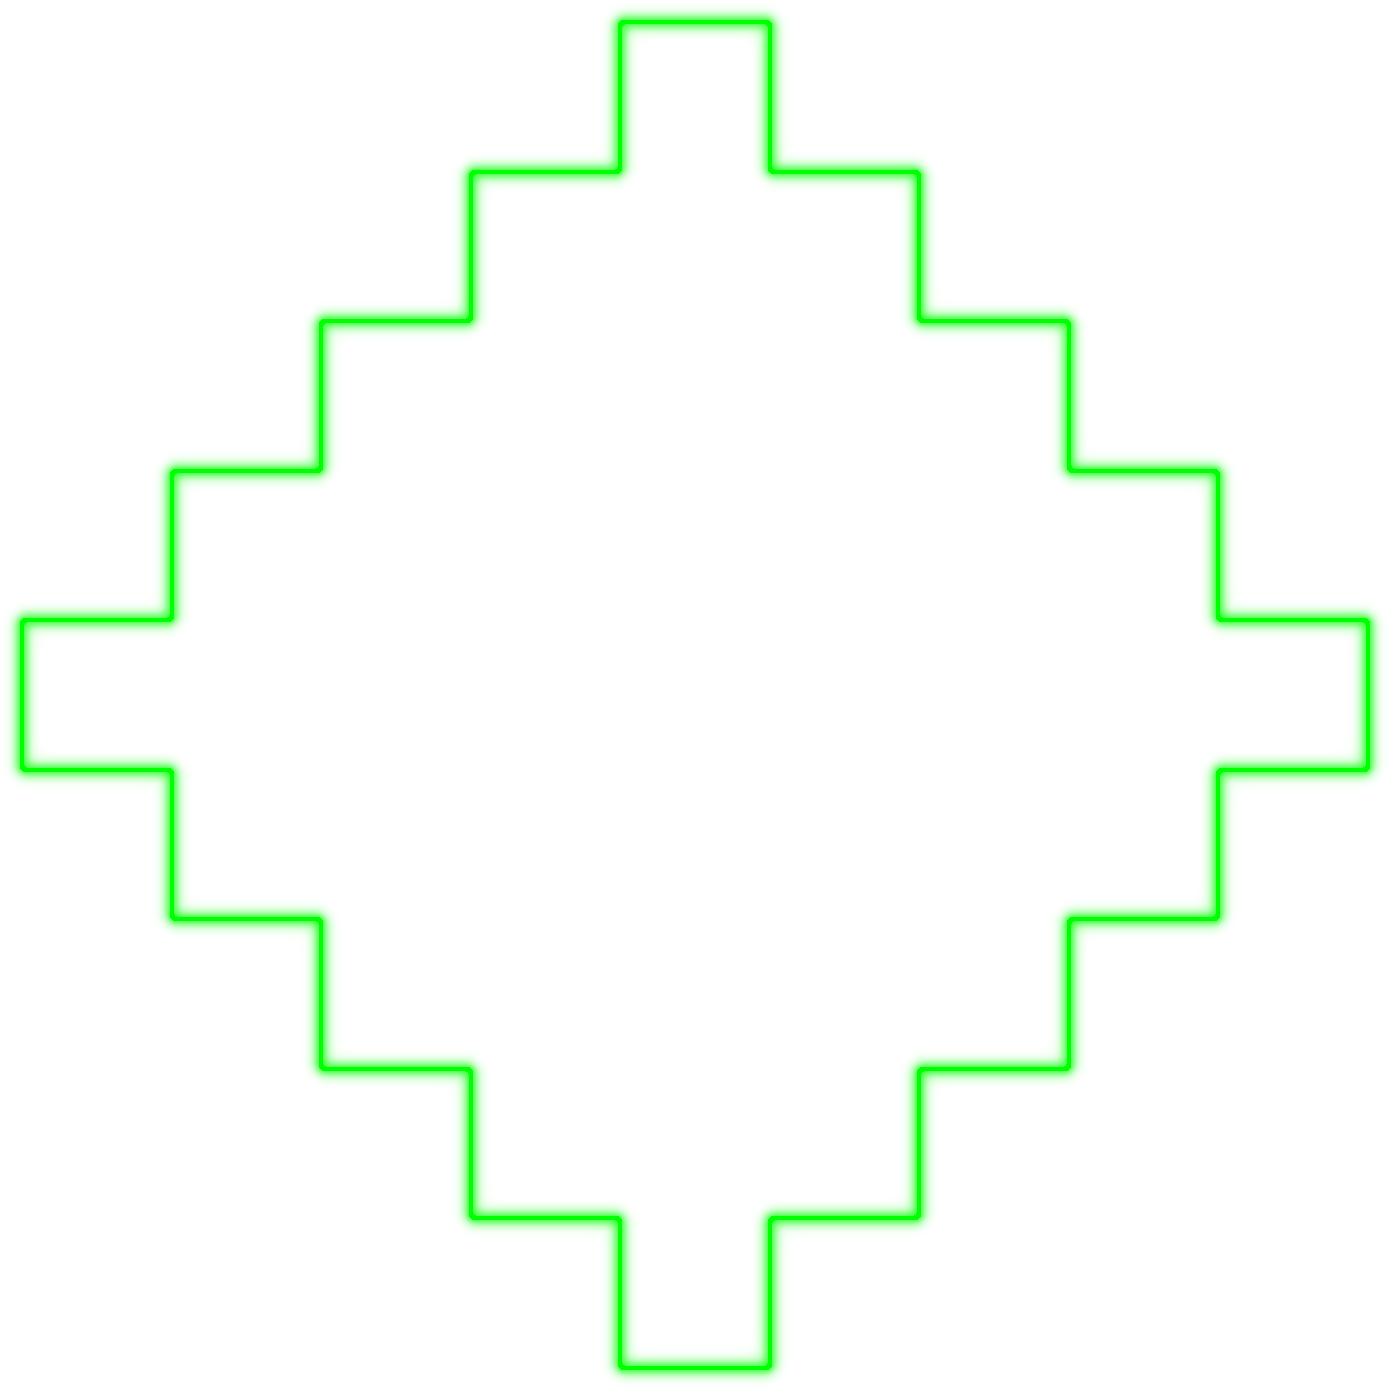
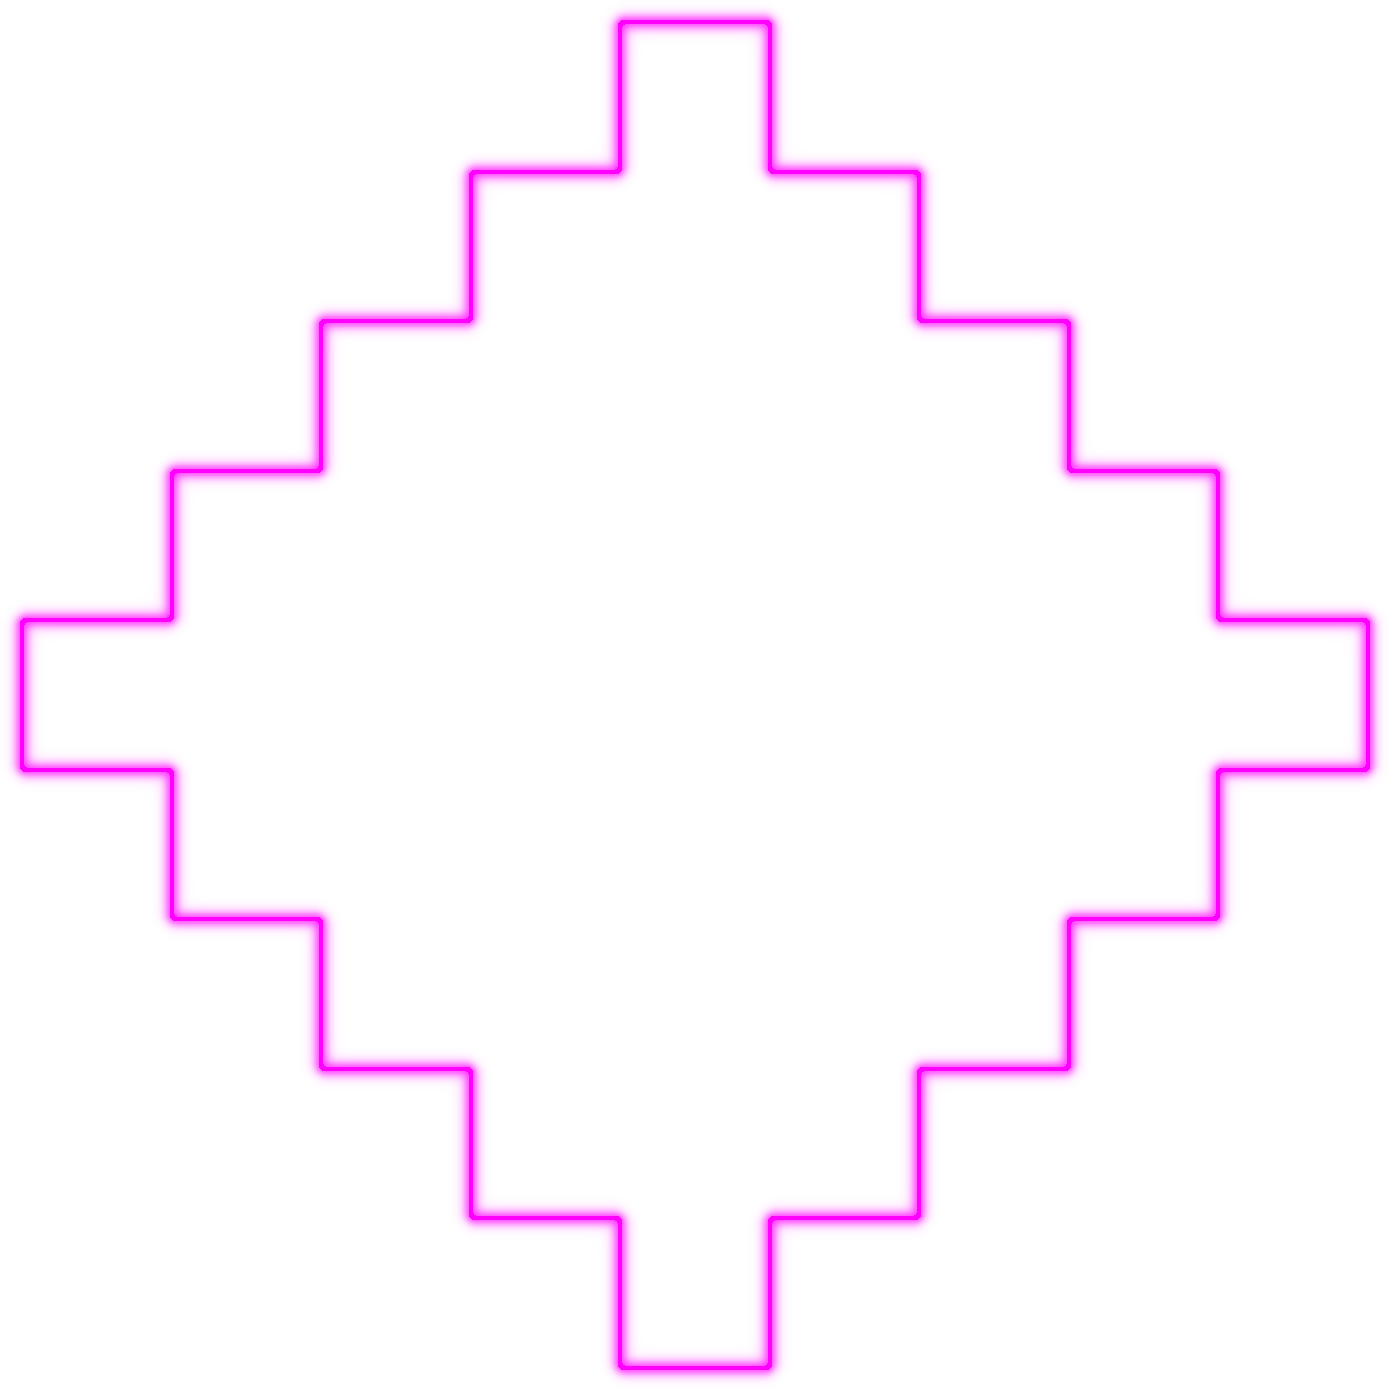
Various search visibility improvements

Changed region(s): [[0.0, 0.0, 1.0, 1.0]]

diff --git a/main.js b/main.js
@@ -264,12 +264,13 @@ const borderColor = 0xFFFFFF;//borderColorHEX.length == 8 ? Number(borderColorHE
 const borderOpacity = 1;//borderColorHEX.length == 8 ? 1 : (borderColorHEX & 0xFF) / 255;
 const activeConnectorColor = 0xFF0000;
 const activeNodeColor = 0xFF0000;
+const searchQueryMatchColor = 0x00FF00;
 
 const lineStyleThinSquare = { alpha: borderOpacity, cap: PIXI.LINE_CAP.SQUARE, color: borderColor, native: true, width: 1 };
 const lineStyleThinButt = { alpha: borderOpacity, cap: PIXI.LINE_CAP.BUTT, color: borderColor, native: true, width: 1 };
 const lineStyleThickSquareTooltip = { alpha: borderOpacity, cap: PIXI.LINE_CAP.SQUARE, color: borderColor, native: false, width: 8 };
-var lineStyleThickSquare = { alpha: borderOpacity, cap: PIXI.LINE_CAP.SQUARE, color: activeNodeColor, native: false, width: 8 };
-var lineStyleThickButt = { alpha: 1, cap: PIXI.LINE_CAP.BUTT, color: activeConnectorColor, native: false, width: 8 };
+const lineStyleThickSquare = { alpha: borderOpacity, cap: PIXI.LINE_CAP.SQUARE, color: activeNodeColor, native: false, width: 8 };
+const lineStyleThickButt = { alpha: 1, cap: PIXI.LINE_CAP.BUTT, color: activeConnectorColor, native: false, width: 8 };
 
 var pixiAllocatedPoints = new Map();
 var pixiAllocatedParagonPoints = 0;
@@ -361,24 +362,28 @@ PIXI.Graphics.prototype.updateLineStyle = function({ alpha = null, cap = null, c
 function setNodeStyleThick(curNode) {
 	const allocatedPoints = curNode.nodeData.get("allocatedPoints");
 	const searchQueryMatch = curNode.nodeData.get("searchQueryMatch");
-	const desiredNodeStyle = `thick${allocatedPoints > 0 ? "-allocated" : ""}${searchQueryMatch ? "-invert" : ""}`;
+	const desiredNodeStyle = `thick${allocatedPoints > 0 ? "-allocated" : ""}${searchQueryMatch ? "-match" : ""}`;
+
 	if (curNode.activeNodeStyle == desiredNodeStyle) return;
+
+	const colorOverride = curNode.nodeData.get("colorOverride");
+	const _textColor = searchQueryMatch ? searchQueryMatchColor : colorOverride == undefined ? textColor : colorOverride;
 
 	let _lineStyleThickSquare = { ...lineStyleThickSquare };
 	if (searchQueryMatch) {
-		if ([0xFF0000, 0xFFFFFF].includes(_lineStyleThickSquare.color)) {
-			_lineStyleThickSquare.color = 0x00FF00;
-		} else {
-			_lineStyleThickSquare.color = _lineStyleThickSquare.color ^ 0xFFFFFF;
-		}
+		_lineStyleThickSquare.color = searchQueryMatchColor;
 	} else if (curNode.groupName == PARAGON_BOARD) {
 		_lineStyleThickSquare.color = COLOR_OVERRIDE["Allocated"];
-	} else if (curNode.nodeData.get("colorOverride") != undefined) {
-		_lineStyleThickSquare.color = curNode.nodeData.get("colorOverride");
+	} else if (colorOverride != undefined) {
+		_lineStyleThickSquare.color = colorOverride;
 	}
 
+	curNode.children[1].style.fill = _textColor;
 	if (allocatedPoints > 0) curNode.children[1].style.fontWeight = "bold";
 	if (curNode.children.length > 3) {
+		curNode.children[2].style.fill = _textColor;
+		curNode.children[3].children[0].style.fill = _textColor;
+		curNode.children[4].children[0].style.fill = _textColor;
 		if (allocatedPoints > 0) {
 			curNode.children[2].style.fontWeight = "bold";
 			curNode.children[3].children[0].style.fontWeight = "bold";
@@ -394,16 +399,24 @@ function setNodeStyleThick(curNode) {
 function setNodeStyleThin(curNode) {
 	const allocatedPoints = curNode.nodeData.get("allocatedPoints");
 	const searchQueryMatch = curNode.nodeData.get("searchQueryMatch");
-	const desiredLineStyle = `thin${allocatedPoints == 0 ? "" : "-allocated"}${searchQueryMatch ? "-invert" : ""}`;
+	const desiredLineStyle = `thin${allocatedPoints == 0 ? "" : "-allocated"}${searchQueryMatch ? "-match" : ""}`;
+
 	if (curNode.activeNodeStyle == desiredLineStyle) return;
 
+	const colorOverride = curNode.nodeData.get("colorOverride");
+	const _textColor = searchQueryMatch ? searchQueryMatchColor : colorOverride == undefined ? textColor : colorOverride;
+
 	let _lineStyleThinSquare = { ...lineStyleThinSquare };
-	if (curNode.nodeData.get("colorOverride") != undefined) {
-		_lineStyleThinSquare.color = curNode.nodeData.get("colorOverride");
+	if (colorOverride != undefined) {
+		_lineStyleThinSquare.color = colorOverride;
 	}
 
+	curNode.children[1].style.fill = _textColor;
 	if (allocatedPoints == 0) curNode.children[1].style.fontWeight = "normal";
 	if (curNode.children.length > 3) {
+		curNode.children[2].style.fill = _textColor;
+		curNode.children[3].children[0].style.fill = _textColor;
+		curNode.children[4].children[0].style.fill = _textColor;
 		if (allocatedPoints == 0) {
 			curNode.children[2].style.fontWeight = "normal";
 			curNode.children[3].children[0].style.fontWeight = "normal";
@@ -693,7 +706,7 @@ function handleClampButton(event) {
 	repositionTooltip();
 	resizeSearchInput();
 }
-const localVersion = "0.8.1.39858-37";
+const localVersion = "0.8.1.39858-38";
 var remoteVersion = "";
 var versionInterval = null;
 function handleVersionLabel(event) {
@@ -2024,13 +2037,11 @@ function drawNode(nodeName, nodeData, groupName, extraData = null, nodeIndex = p
 	const maxPoints = nodeData.get("maxPoints");
 	const requiredPoints = nodeData.get("requiredPoints");
 
-	// `searchQueryMatch` implies `useThickNodeStyle` and `invertColor`; is set in `handleSearchInput(...)`; and is only used for restoring node style after `redrawNode` is called
 	const searchQueryMatch = nodeData.get("searchQueryMatch");
-
 	const useThickNodeStyle = searchQueryMatch || (groupName == undefined ? requiredPoints <= getAllocatedSkillPoints(nodeName) : allocatedPoints > 0);
 
 	const colorOverride = nodeData.get("colorOverride");
-	const _textColor = colorOverride != undefined ? colorOverride : textColor;
+	const _textColor = searchQueryMatch ? searchQueryMatchColor : colorOverride == undefined ? textColor : colorOverride;
 
 	let extraContainer, extraContainer2, extraContainer3, extraContainer4, extraContainer5;
 	if (extraData != null) {
@@ -2200,9 +2211,9 @@ function drawNode(nodeName, nodeData, groupName, extraData = null, nodeIndex = p
 		};
 		nodeText2.eventMode = "auto";
 		nodeText2.scale.set(1 / scaleFactor);
-		nodeText2.anchor.set(0.5);
-		nodeText2.x = (_nodeWidth * shapeSize * circleFactor * diamondFactor - nodeText2.width) * 0.5 - 5;
-		nodeText2.y = (nodeText2.height - _nodeHeight * shapeSize * circleFactor * diamondFactor) * 0.5 + (shapeType == "circle" ? -2 : 2);
+		nodeText2.anchor.set(1, 0);
+		nodeText2.x = (_nodeWidth * shapeSize * circleFactor * diamondFactor) * 0.5 - 10;
+		nodeText2.y = -(_nodeHeight * shapeSize * circleFactor * diamondFactor) * 0.5 + (shapeType == "circle" ? 1 : 7);
 
 		minusContainer = updateExistingNode ? pixiNodes[nodeIndex].children[3] : new PIXI.Container();
 		minusContainer.cursor = "pointer";
@@ -2231,9 +2242,9 @@ function drawNode(nodeName, nodeData, groupName, extraData = null, nodeIndex = p
 		};
 		nodeText3.eventMode = "auto";
 		nodeText3.scale.set(1 / scaleFactor);
-		nodeText3.anchor.set(0.5);
-		nodeText3.x = (nodeText3.width - _nodeWidth * shapeSize * circleFactor * diamondFactor) * 0.5 + 4;
-		nodeText3.y = (_nodeHeight * shapeSize * circleFactor * diamondFactor - nodeText3.height) * 0.5 + (shapeType == "circle" ? 8 : 0);
+		nodeText3.anchor.set(0, 1);
+		nodeText3.x = -(_nodeWidth * shapeSize * circleFactor * diamondFactor) * 0.5 + 9;
+		nodeText3.y = (_nodeHeight * shapeSize * circleFactor * diamondFactor) * 0.5 + (shapeType == "circle" ? 3 : -5);
 		if (!updateExistingNode) minusContainer.addChild(nodeText3);
 
 		plusContainer = updateExistingNode ? pixiNodes[nodeIndex].children[4] : new PIXI.Container();
@@ -2263,9 +2274,9 @@ function drawNode(nodeName, nodeData, groupName, extraData = null, nodeIndex = p
 		};
 		nodeText4.eventMode = "auto";
 		nodeText4.scale.set(1 / scaleFactor);
-		nodeText4.anchor.set(0.5);
-		nodeText4.x = (_nodeWidth * shapeSize * circleFactor * diamondFactor - nodeText4.width) * 0.5;
-		nodeText4.y = (_nodeHeight * shapeSize * circleFactor * diamondFactor - nodeText4.height) * 0.5 + (shapeType == "circle" ? 12 : 4);
+		nodeText4.anchor.set(1, 1);
+		nodeText4.x = (_nodeWidth * shapeSize * circleFactor * diamondFactor) * 0.5 - 5;
+		nodeText4.y = (_nodeHeight * shapeSize * circleFactor * diamondFactor) * 0.5 + (shapeType == "circle" ? 7 : -1);
 		if (!updateExistingNode) plusContainer.addChild(nodeText4);
 	}
 
@@ -2277,12 +2288,8 @@ function drawNode(nodeName, nodeData, groupName, extraData = null, nodeIndex = p
 	nodeBorder.pivot.y = _nodeHeight * 0.5 * shapeSize;
 	if (([PARAGON_BOARD, CODEX_OF_POWER, SPIRIT_BOONS, BOOK_OF_THE_DEAD, undefined].includes(groupName) && requiredPoints == 0) || useThickNodeStyle) {
 		let _lineStyleThickSquare = { ...lineStyleThickSquare };
-		if (searchQueryMatch) { // aka `invertColor`
-			if ([0xFF0000, 0xFFFFFF].includes(_lineStyleThickSquare.color)) {
-				_lineStyleThickSquare.color = 0x00FF00;
-			} else {
-				_lineStyleThickSquare.color = _lineStyleThickSquare.color ^ 0xFFFFFF;
-			}
+		if (searchQueryMatch) {
+			_lineStyleThickSquare.color = searchQueryMatchColor;
 		} else if (groupName == PARAGON_BOARD) {
 			_lineStyleThickSquare.color = COLOR_OVERRIDE["Allocated"];
 		} else if (colorOverride != undefined) {
@@ -2721,6 +2728,7 @@ function drawAllNodes() {
 				drawNode(boardName, paragonBoardNode, PARAGON_BOARD, unsortedIndex > 0 ? unsortedIndex : null);
 				const boardHeader = pixiNodes[pixiNodes.length - 1];
 
+				let socketData = null;
 				for (const [yPosition, rowData] of Object.entries(boardData)) {
 					for (const [xPosition, nodeData] of Object.entries(rowData)) {
 						if (nodeData.length > 0) {
@@ -2766,11 +2774,19 @@ function drawAllNodes() {
 								["x", nodeSpacingX * (Number(xPosition) - 10)],
 								["y", nodeSpacingY * (Number(yPosition) - 10)]
 							]);
-							drawNode(nodeName, boardNode, PARAGON_BOARD);
-							if (nodeType == "Socket") paragonBoardNode.set("glyphSocket", pixiNodes[pixiNodes.length - 1]);
-							boardContainer.addChild(pixiNodes[pixiNodes.length - 1]);
+							if (nodeType == "Socket") {
+								socketData = [nodeName, boardNode]; // defer drawing glyph socket (z-index texture workaround)
+							} else {
+								drawNode(nodeName, boardNode, PARAGON_BOARD);
+								boardContainer.addChild(pixiNodes[pixiNodes.length - 1]);
+							}
 						}
 					}
+				}
+				if (socketData != null) {
+					drawNode(socketData[0], socketData[1], PARAGON_BOARD);
+					paragonBoardNode.set("glyphSocket", pixiNodes[pixiNodes.length - 1]);
+					boardContainer.addChild(pixiNodes[pixiNodes.length - 1]);
 				}
 				boardContainer.startPosition = new PIXI.Point(boardX, boardY + nodeSpacingY * 11);
 				boardContainer.position.copyFrom(boardContainer.startPosition);

diff --git a/database/data.js b/database/data.js
@@ -1,5 +1,5 @@
 const buildNumber = 39858;
-const localVersion = `0.8.1.${buildNumber}-37`;
+const localVersion = `0.8.1.${buildNumber}-38`;
 var remoteVersion = "";
 var versionInterval = null;
 
